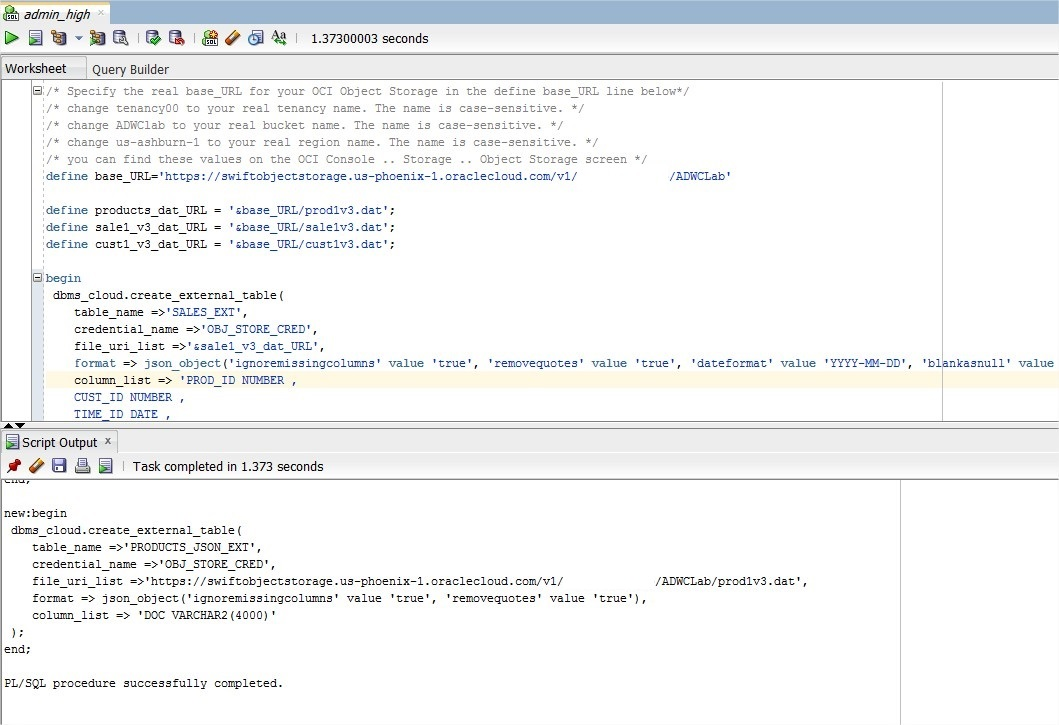
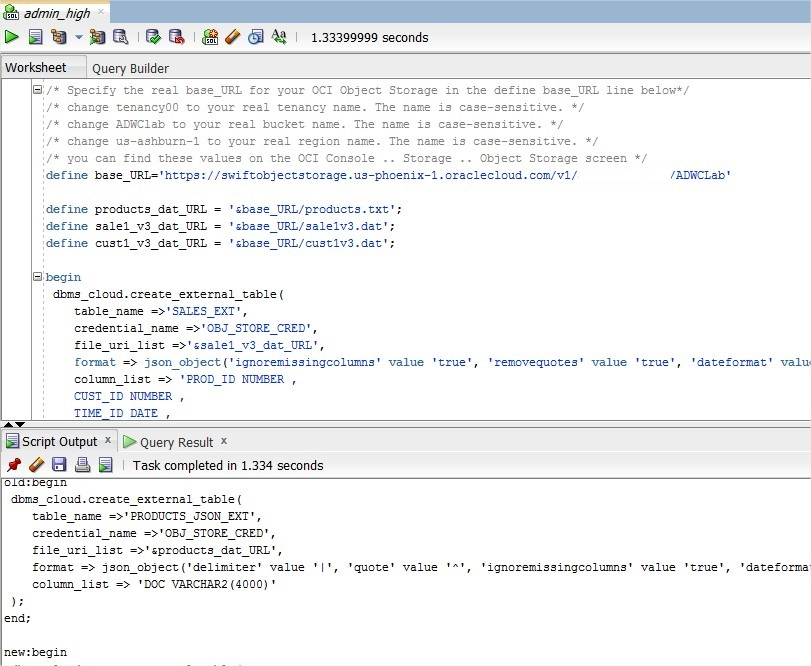
Fixing products.txt

diff --git a/workshops/journey4-adw-gsg-oow/LabGuide4.md b/workshops/journey4-adw-gsg-oow/LabGuide4.md
@@ -35,7 +35,7 @@ To **log issues**, click <a href="https://github.com/millerhoo/journey4-adwc/iss
 
 -   Connected as your user in SQL Developer, copy and paste <a href="./scripts/400/create_external_tables.txt" target="_blank">this code snippet</a> to SQL Developer worksheet.  
 
-    Use the **create\_external\_table** procedure of the **DBMS\_CLOUD** package to create external tables on the files (**sale1v3.dat**, **cust1v3.dat**, and **prod1v3.dat**) staged in your object store. Note that you are still using the same credential and the URLs of files on OCI Object Storage you used when loading data in the previous lab.
+    Use the **create\_external\_table** procedure of the **DBMS\_CLOUD** package to create external tables on the files (**sale1v3.dat**, **cust1v3.dat**, and **products.txt**) staged in your object store. Note that you are still using the same credential and the URLs of files on OCI Object Storage you used when loading data in the previous lab.
 
     -   At the top of the script, specify the Object Store base URL in the definition of the **base\_URL** variable.
 
@@ -121,11 +121,7 @@ When you are satisfied with the data preview, click **NEXT**.
 
 ![](./images/400/snap0014677.jpg)
 
-
-
-
-
--   The final screen reflects all your choices made in the Wizard. Click **FINISH** to create the external table CHANNELS_EXT.
+-   The final screen reflects all your choices made in the Wizard. Click **FINISH** to create the external table CHANNELS_EXT and wait for the import to complete.
 
 -   Finally, test your new external table by running a simple query like this:
 
